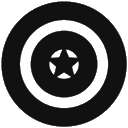
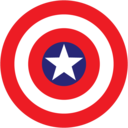
Done with kavan version 1.0

diff --git a/src/brand.ts b/src/brand.ts
@@ -31,29 +31,94 @@ export const c = {
   grey: (t: string) => color(ANSI.grey, t),
 };
 
-// Concentric rings with a center star. Every row is the same display width so
-// the circle does not shear; box-drawing glyphs are all single-width.
-const SHIELD = [
-  '    ▄▄████████▄▄    ',
-  '  ▄███▀▀    ▀▀███▄  ',
-  ' ███  ▄▄████▄▄  ███ ',
-  '███  ███▀  ▀███  ███',
-  '██  ██▀  ▄▄  ▀██  ██',
-  '██  ██  ▐██▌  ██  ██',
-  '██  ██▄  ▀▀  ▄██  ██',
-  '███  ███▄  ▄███  ███',
-  ' ███  ▀▀████▀▀  ███ ',
-  '  ▀███▄▄    ▄▄███▀  ',
-  '    ▀▀████████▀▀    ',
+// The shield is drawn from the same geometry as assets/shield.svg rather than
+// hand-laid ASCII, so the terminal mark and the image mark cannot drift apart.
+// Each cell samples the top and bottom half and renders a half-block, which
+// doubles vertical resolution in a terminal's 2:1 character aspect.
+const RINGS = [
+  { r: 1.0, fg: '\x1b[38;5;196m' }, // outer red
+  { r: 0.78, fg: '\x1b[38;5;255m' }, // white
+  { r: 0.56, fg: '\x1b[38;5;196m' }, // red
+  { r: 0.35, fg: '\x1b[38;5;19m' }, // navy centre
 ];
+const STAR_FG = '\x1b[38;5;255m';
+
+const COLS = 22;
+const ROWS = 11;
+
+function starHit(nx: number, ny: number): boolean {
+  // Point-in-polygon against a 5-point star, apex up, in normalized space.
+  const outer = 0.315;
+  const inner = 0.126;
+  const pts: Array<[number, number]> = [];
+  for (let i = 0; i < 10; i++) {
+    const angle = -Math.PI / 2 + (i * Math.PI) / 5;
+    const r = i % 2 === 0 ? outer : inner;
+    pts.push([r * Math.cos(angle), r * Math.sin(angle)]);
+  }
+
+  let inside = false;
+  for (let i = 0, j = 9; i < 10; j = i++) {
+    const [xi, yi] = pts[i];
+    const [xj, yj] = pts[j];
+    if (yi > ny !== yj > ny && nx < ((xj - xi) * (ny - yi)) / (yj - yi) + xi) {
+      inside = !inside;
+    }
+  }
+  return inside;
+}
+
+/** Colour of one sample point, or null when outside the shield. */
+function sample(nx: number, ny: number): string | null {
+  const d = Math.hypot(nx, ny);
+  if (d > RINGS[0].r) return null;
+  if (d <= RINGS[3].r) return starHit(nx, ny) ? STAR_FG : RINGS[3].fg;
+  for (let i = 0; i < 3; i++) {
+    if (d > RINGS[i + 1].r) return RINGS[i].fg;
+  }
+  return RINGS[3].fg;
+}
+
+/** Turn a 256-colour foreground escape into the matching background escape. */
+function bg(fg: string): string {
+  return fg.replace('[38;5;', '[48;5;');
+}
+
+function shieldRows(): string[] {
+  const rows: string[] = [];
+
+  for (let row = 0; row < ROWS; row++) {
+    let line = '';
+    for (let col = 0; col < COLS; col++) {
+      const nx = ((col + 0.5) / COLS) * 2 - 1;
+      // Two vertical samples per cell -> upper and lower half-block.
+      const top = sample(nx, ((row + 0.25) / ROWS) * 2 - 1);
+      const bottom = sample(nx, ((row + 0.75) / ROWS) * 2 - 1);
+
+      if (!top && !bottom) {
+        line += ' ';
+      } else if (top && bottom) {
+        // Both halves filled: use a full block in the top colour, with the
+        // bottom colour as background so a two-tone cell still reads correctly.
+        line += top === bottom ? `${top}█\x1b[0m` : `${top}${bg(bottom)}▀\x1b[0m`;
+      } else if (top) {
+        line += `${top}▀\x1b[0m`;
+      } else {
+        line += `${bottom}▄\x1b[0m`;
+      }
+    }
+    rows.push(line);
+  }
+  return rows;
+}
 
 /** Printed once per run. Goes to stderr so stdout stays parseable. */
 export function banner(subtitle = 'autonomous PR review'): string {
   if (plain()) return `KAVACH — ${subtitle}`;
 
-  const lines = SHIELD.map((l) => c.blue(l));
-  lines[4] += c.bold('        K A V A C H');
-  lines[5] += c.grey(`        ${subtitle}`);
+  const lines = shieldRows();
+  lines[4] += c.bold('   K A V A C H');
+  lines[5] += c.grey(`   ${subtitle}`);
   return lines.join('\n');
 }
 

diff --git a/README.md b/README.md
@@ -1,14 +1,29 @@
-<img src="assets/shield-256.png" alt="Kavach" width="96" align="right">
+<div align="center">
+
+<img src="assets/shield-256.png" alt="Kavach" width="180">
 
 # Kavach
 
-Autonomous AI PR review for Claude Code.
+### *Paste a link. Get a review. That's the whole interface.*
 
-Paste a GitHub PR URL into Claude Code. Kavach fetches the diff, routes it to the
-reviewers that matter for those files, judges it, posts inline comments for
-findings it can stand behind, and sends a Google Chat summary.
+[![version](https://img.shields.io/badge/version-1.0.0-2b7489)](https://github.com/O-Thinkitive-M/kavach)
+[![dependencies](https://img.shields.io/badge/dependencies-0-brightgreen)](#development)
+[![tests](https://img.shields.io/badge/tests-60%20passing-brightgreen)](test/)
+[![node](https://img.shields.io/badge/node-%E2%89%A522.18-339933)](https://nodejs.org)
+[![license](https://img.shields.io/badge/license-MIT-blue)](LICENSE)
 
-**One paste. No questions. No configuration.**
+**Autonomous PR review inside Claude Code.**
+No API key · No onboarding interview · Never blocks a merge
+
+[Setup guide](SETUP.md) · [How it works](#how-it-works) · [Configuration](#configuration)
+
+</div>
+
+---
+
+You paste a pull request URL into Claude Code. Kavach fetches the diff, picks the
+reviewers that matter for those files, reads the code, posts inline comments on
+the exact lines with problems, and sends a summary to Google Chat.
 
 ```
 you:  https://github.com/acme/api/pull/482
@@ -18,11 +33,14 @@ you:  https://github.com/acme/api/pull/482
       7 inline comments posted · Chat card sent
 ```
 
+No confirmations. No "shall I post?". One paste, start to finish.
+
+---
+
 ## Install
 
-> **New to Kavach? Read the [step-by-step setup guide](SETUP.md)** — it walks
-> through getting a GitHub token, connecting Google Chat, and reviewing your first
-> PR in about 5 minutes.
+> **First time?** The **[step-by-step setup guide](SETUP.md)** covers getting a
+> GitHub token, connecting Google Chat, and your first review — about 5 minutes.
 
 ```bash
 # From a local clone (use this until the repo is published):
@@ -35,50 +53,27 @@ you:  https://github.com/acme/api/pull/482
 ```
 
 Then paste a PR URL. The first time, Kavach asks for a GitHub token (and
-optionally a Google Chat webhook), verifies them, and stores them. **It never asks
-again** — every later review runs silently.
+optionally a Google Chat webhook), verifies them against the live API, and stores
+them. **It never asks again** — every later review runs silently.
 
-To set up ahead of time:
-
-```
-/kavach-setup
-```
+To set up ahead of time: `/kavach-setup`
 
 Credentials live in `~/.kavach/credentials.json` with `0600` permissions, outside
-any repository, so they cannot be committed by accident. Environment variables
-(`GITHUB_TOKEN`, `GOOGLE_CHAT_WEBHOOK`) take precedence when set, which is what CI
-should use.
-
-The token needs the **`repo`** scope — [create one here](https://github.com/settings/tokens/new?scopes=repo).
-Fine-grained tokens work too with *Pull requests: read & write*.
-
-There is no project onboarding interview either: Kavach detects the stack on its
-first run in a repo and writes `.pr-architect/config.json` itself.
+any repository, so they cannot be committed by accident. `GITHUB_TOKEN` and
+`GOOGLE_CHAT_WEBHOOK` environment variables take precedence when set — that is
+what CI should use.
 
 ### Multiple accounts
 
 Reviewing a repo your stored token cannot reach? Kavach detects it, asks for a
-token that covers that organization, and stores it scoped to that owner — your
+token covering that organization, and stores it scoped to that owner — your
 existing default is left alone. One machine, work and personal repos:
 
 ```bash
 kavach setup --token <token> --repo acme/api --owner acme
 ```
 
-## Use
-
-Paste a PR URL in chat, or:
-
-```
-/kavach-review https://github.com/owner/repo/pull/123
-```
-
-From the terminal:
-
-```bash
-node src/cli.ts run https://github.com/owner/repo/pull/123
-node src/cli.ts publish --run .pr-architect/runs/123-abc1234 --dry-run
-```
+---
 
 ## How it works
 
@@ -92,8 +87,8 @@ PR URL
 The CLI does every deterministic step; Claude Code does the judgement. There is no
 API key and no LLM client — that is why it is cheap.
 
-**Claude never fetches the diff itself.** A 37-file PR is ~193,000 tokens of raw
-patch. `cli.ts run` budgets it down to 60k before Claude sees anything, keeping the
+**Claude never fetches the diff itself.** A real 37-file PR is ~193,000 tokens of
+raw patch. `cli.ts run` budgets it to 60k before Claude sees anything, keeping the
 highest-signal files whole and truncating the rest at hunk boundaries so line
 numbers stay valid.
 
@@ -126,7 +121,7 @@ Uncertain observations are never presented as defects:
 | < 0.5 | either | dropped |
 
 Reviews are always posted as `COMMENT`, never `REQUEST_CHANGES`. **Kavach never
-blocks a merge**, even on Critical findings.
+blocks a merge**, even on Critical findings. A human always decides.
 
 ### Never spams
 
@@ -136,12 +131,38 @@ blocks a merge**, even on Critical findings.
 - a finding on a line outside the diff moves to the summary rather than failing
   the whole review
 
+---
+
+## Works with any stack
+
+React · Next.js · Node · Python · Go · Java · Rust · PHP · Ruby · or a mix.
+
+Open a new project, paste a PR link, and it works. On first run Kavach silently
+detects the language, framework, package manager, test framework and monorepo
+layout, then writes `.pr-architect/config.json`. **It never asks you questions
+about your project.**
+
+### Teach it your project's rules
+
+Write plain sentences in `.pr-architect/rules.md`:
+
+```markdown
+- All database access goes through `repositories/`, never direct SQL in components.
+- Every API route requires `requireAuth()` as the first line.
+- Money values are integers in cents, never floats.
+```
+
+Every reviewer reads this and enforces it. It is the highest-value thing you can
+do to improve review quality.
+
+---
+
 ## Configuration
 
 Optional. Kavach works with none.
 
 ```bash
-/kavach-config                                  # show
+/kavach-config                                  # show current settings
 /kavach-config review.maxComments=25
 /kavach-config budget.maxContextTokens=120000
 /kavach-config review.neverReviewers=accessibility
@@ -149,17 +170,44 @@ Optional. Kavach works with none.
 /kavach-setup status                            # what credentials are configured
 ```
 
-`.pr-architect/rules.md` and `knowledge.md` are yours — write project rules there
-and every reviewer will honor them. Kavach never overwrites either file.
+| Setting | Default | Effect |
+|---|---|---|
+| `review.maxComments` | `15` | Cap on inline comments per PR |
+| `review.mode` | `standard` | `deep` uses more reviewers and a larger budget |
+| `review.minConfidenceForIssue` | `0.8` | Above this a finding is stated as an Issue |
+| `review.minConfidenceToComment` | `0.5` | Below this a finding is dropped |
+| `review.alwaysReviewers` | `security` | Always run, whatever the files |
+| `review.neverReviewers` | *(empty)* | Never run |
+| `budget.maxContextTokens` | `60000` | Larger is more thorough but slower |
+| `notify.googleChat` | `true` | Set `false` to stop Chat messages |
+
+---
 
 ## Development
 
-Zero runtime dependencies. Node 24 runs the TypeScript directly — no build step.
+Zero runtime dependencies. Node 24 runs the TypeScript directly — no build step,
+no bundler, no `npm install`.
 
 ```bash
-node --test test/*.test.ts
+node --test test/*.test.ts     # 60 tests
+node src/cli.ts run <pr-url>
+node src/cli.ts publish --run <dir> --dry-run
 ```
 
-## License
+| Path | What it holds |
+|---|---|
+| `src/diff/` | patch parsing and the token budget |
+| `src/review/` | routing, dedupe, confidence policy |
+| `src/github/` | REST client, PR fetch, review publish |
+| `src/store/` | config, credentials, migrations |
+| `skills/reviewers/` | the eight reviewer rubrics (plain markdown) |
 
-MIT
+---
+
+<div align="center">
+
+Built at [Thinkitive](https://github.com/O-Thinkitive-M) · MIT
+
+<sub>The shield is Marvel's Captain America shield, used as an internal project mark.</sub>
+
+</div>
